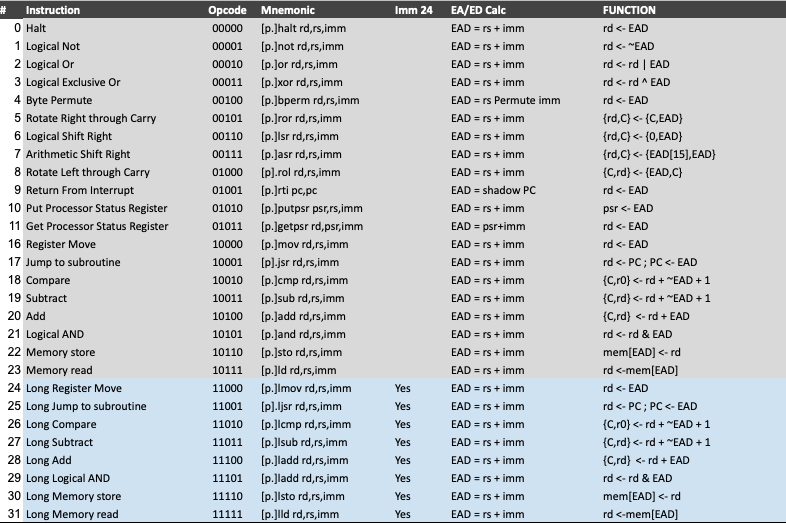
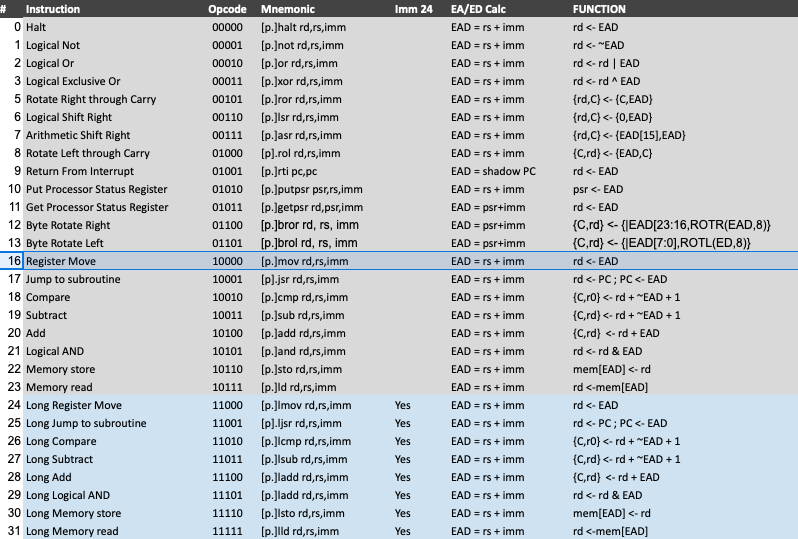
No sign ext. on RSRC=R0;BROT/BROL replace BPERM;Fix Histogram code to work with OPC7/8

Changed region(s): [[0.0, 0.0, 1.0, 1.0]]

diff --git a/opc8/opc8emu.py b/opc8/opc8emu.py
@@ -1,5 +1,5 @@
 import sys, re
-mnemonics = "halt,not,xor,or,bperm,ror,lsr,asr,rol,rti,putpsr,getpsr,0C,0D,0E,0F,mov,jsr,cmp,sub,add,and,sto,ld,lmov,ljsr,lcmp,lsub,ladd,land,lsto,lld".split(",")
+mnemonics = "halt,not,xor,or,bperm,ror,lsr,asr,rol,rti,putpsr,getpsr,bror,brol,0E,0F,mov,jsr,cmp,sub,add,and,sto,ld,lmov,ljsr,lcmp,lsub,ladd,land,lsto,lld".split(",")
 op = dict([(opcode,mnemonics.index(opcode)) for opcode in mnemonics])
 dis = dict([(mnemonics.index(opcode),opcode) for opcode in mnemonics])
 pred_dict = {0:"",1:"0.",2:"z.",3:"nz.",4:"c.",5:"nc.",6:"mi.",7:"pl."}
@@ -21,7 +21,7 @@ while True:
     instr_word = wordmem[regfile[pcreg] & 0xFFFFFF ] &  0xFFFFFF
     (p0, p1, p2) = ( (instr_word & 0x800000) >> 23, (instr_word & 0x400000) >> 22, (instr_word & 0x200000)>>21)    
     (opcode, dest, source, simm) = (((instr_word & 0x1F0000) >> 16) , (instr_word & 0xF000) >>12, (instr_word & 0xF00)>>8, instr_word & 0xFF)
-    simm = (0xFFFF00 | simm) if (simm & 0x80) else simm
+    simm = (0xFFFF00 | simm) if (source!=0 and (simm & 0x80)) else simm
     (instr_len, rdmem, preserve_flag) = (2 if (opcode&0x18==0x18) else 1, opcode==op["ld"], (dest==pcreg))
     (regfile[15],operand) = (regfile[15]+2,wordmem[regfile[pcreg]+1]) if (instr_len==2) else (regfile[15]+1,simm)
     instr_str = "%s%s r%d," % ((pred_dict[p0<<2 | p1<<1 | p2] if (p0,p1,p2)!=(0,0,1) else ""),dis[opcode],dest)
@@ -52,14 +52,13 @@ while True:
                 (c, regfile[dest]) = (ea_ed & 0x1, ( ((c<<23) if opcode==op["ror"] else (ea_ed&0x800000 if opcode==op["asr"] else 0)) | ((ea_ed&0xFFFFFF) >> 1)))
             elif opcode == op["rol"] :
                 (c,regfile[dest]) = ( (ea_ed & 0x800000)>>23, (c|(ea_ed<<1))&0xFFFFFF)
+            elif opcode == op["brol"]:
+                (c,regfile[dest]) = ( functools.reduce( lambda x,y: x|y , [ 1 if (i&1<<j) else 0 for j in range(16,24)], ((ea_ed<<8)|(ea_ed>>16))&0xFFFFFF ))
+            elif opcode == op["bror"]:
+                (c,regfile[dest]) = ( functools.reduce( lambda x,y: x|y , [ 1 if (i&1<<j) else 0 for j in range(0,8)], ((ea_ed>>8)|(ea_ed<<16))&0xFFFFFF ))
             elif opcode == op["add"] :
                 res = (regfile[dest] + ea_ed)  & 0x1FFFFFF
                 (c, regfile[dest])  = ( (res>>24) & 1, res & 0xFFFFFF)
-            elif opcode == op["bperm"]:
-                n = [ (operand>>i)&0x03 for i in range(0,8,2) ]
-                bytes = [ 0 if (i==3) else ((ea_ed>>(n[i]*8))&0xFF) for i in range(0,3)]
-                bytes = [ ~x for b in bytes if n[3]>2] # invert bytes if top bit of simm set
-                regfile[dest] = functools.reduce( lambda x,y: x|y, [ y<<x for (y,x) in zip(bytes,range(0,24,8))])
             elif opcode in (op["mov"], op["not"], op["ld"]):
                 regfile[dest] = (~ea_ed if opcode==op["not"] else ea_ed) & 0xFFFFFF
                 if opcode==op["ld"]: 

diff --git a/opc8/opc8asm.py b/opc8/opc8asm.py
@@ -1,5 +1,5 @@
 import sys, re, codecs, functools
-op = "halt,not,xor,or,bperm,ror,lsr,asr,rol,rti,putpsr,getpsr,0C,0D,0E,0F,mov,jsr,cmp,sub,add,and,sto,ld,lmov,ljsr,lcmp,lsub,ladd,land,lsto,lld".split(",")
+op = "halt,not,xor,or,bperm,ror,lsr,asr,rol,rti,putpsr,getpsr,bror,brol,0E,0F,mov,jsr,cmp,sub,add,and,sto,ld,lmov,ljsr,lcmp,lsub,ladd,land,lsto,lld".split(",")
 long_op = "lmov,ljsr,lcmp,lsub,ladd,land,lsto,lld".split(",")
 symtab = dict( [ ("r%d"%d,d) for d in range(0,16)] + [("pc",15), ("psr",0)])
 pdict = {"1":0x000000,"z":0x400000,"nz":0x600000,"c":0x800000,"nc":0xA00000,"mi":0xC00000,"pl":0xE00000,"":0x000000} 
@@ -58,7 +58,7 @@ for iteration in range (0,2): # Two pass assembly
                 if (inst in op) :
                     (dst,src,val) = (words+[0])[:3]
                     if (inst not in long_op):
-                        if ( (~val & 0xFFFF80 !=0xFFFF80) and ( val & 0xFFFF80 != 0xFFFF80)):
+                        if ( (src!=0) and (~val & 0xFFFF80 !=0xFFFF80) and ( val & 0xFFFF80 != 0xFFFF80)) or ( (src==0) and not( -1 <val<0x100)):
                             errors=(errors+["Error: short constant out of range in ...\n         %s"%(line.strip())])
                         words=[pdict[pred]|((op.index(inst)&0x1F)<<16)|(dst<<12)|(src<<8)|val&0xFF][:len(words)-(len(words)==2)]                        
                     else :

diff --git a/utils/histogram.py b/utils/histogram.py
@@ -34,7 +34,7 @@ def generate_histograms(filename, type, verbose=False):
                 instr     = pobj.groupdict()["instr"]
                 rd        = pobj.groupdict()["rd"]    
                 if rd in ('r15','pc'):
-                    instr = instr+'[dst=pc]'    
+                    instr = instr+'[dst=pc]'
                 if predicate:
                     if predicate in preds_dict:
                         preds_dict[predicate] += 1

diff --git a/docs/opc8spec.md b/docs/opc8spec.md
@@ -24,9 +24,11 @@ and destination using the two 4 bit fields in the encoding. Two of the registers
   
 The address bus and program counter are both 24 bits wide.
 
-All intructions can use an 8 bit short immediate value. This value will be sign extended to 24 bits.
+All intructions can use an 8 bit short immediate value.
 
-The valid range of a 8b immediate is 0x000000->0x00007F and 0xFFFF80->0xFFFFFF.
+When the source register is not R0, the value will be sign extended to 24 bits. In this case the valid range of a 8b immediate is 0x000000->0x00007F and 0xFFFF80->0xFFFFFF.
+
+When the source register is R0, the value will be left unsigned and the upper bytes of the immediate will be filled with zeros. In this case the valid range of an 8b immediate is -1 < immediate < 256
 
 Only a sub-set of instructions allow a full 24b immediate value to be used  - see the Instruction Set table for details.
 
@@ -85,33 +87,10 @@ a prefix on the instruction mnemonic in the assembler.
   |  1 |  1 |  0 | mi.        | Execute if Sign flag is set                        |
   |  1 |  1 |  1 | pl.        | Execute if Sign flag is clear                      |
   
-Byte Permute Function
----------------------
-							
-OPC-8 retains a byte permute function from OPC-7 which can perform various byte-wise shifts, rotations, swaps and replication.		
-							
-Bytes are picked from the source register (rs) and placed into the destination register (rd) according to the bit pattern
-provided in the 8b immediate data. The lower 6 bits of this control word are split into 3 pairs. Each pair of control bits
-determine which byte of the source will be placed in the corresponding byte position of the destination.
-Bytes (and pairs) are numbered from 2 down to 0 reading from left to right (MSB to LSB). 
-							
-    BPERM rd,rs,0b00_10_01_00  Has no effect on r1 - all bytes are put back in their original positions
-    BPERM rd,rs,0b00_00_01_10  Reverses the order of the bytes in r1					
-    BPERM rd,rs,0b00_00_10_01  Byte-wise rotate right					
-    BPERM rd,rs,0b00_01_00_10  Byte-wise rotate left					
-    BPERM rd,rs,0b00_00_00_00  Replicate byte 0 into all bytes
-    
-In addition to picking bytes from the source, it's possible also to specify that bytes should be zeroed by using the value
-0b11 in the appropriate control pair. Again, with some examples
+Byte Rotate Instructions
+------------------------
 
-    BPERM rd,rs,0b00_11_11_00  Blank off top two bytes
-    BPERM rd,rs,0b00_11_11_11  Zeroes all bytes in the destination 
-
-The top two bits of the control word are unused. These should be written as zero in case additional options are provided
-here, e.g.
-
-    bit 7 could invert the entire destination word
-    bit 6 could use all-ones rather than all-zeros for blank bytes
+OPC-8 has two byte rotate instructions. Unlike the bit rotates these don't rotate through the carry flag. For byte rotate left the carry flag is set if any of the bits in the topmost byte of the source are non-zero. For byte rotate right the carry is set if any of the bits in the lowest byte of the source are non-zero.
 
 Interrupts
 ----------
